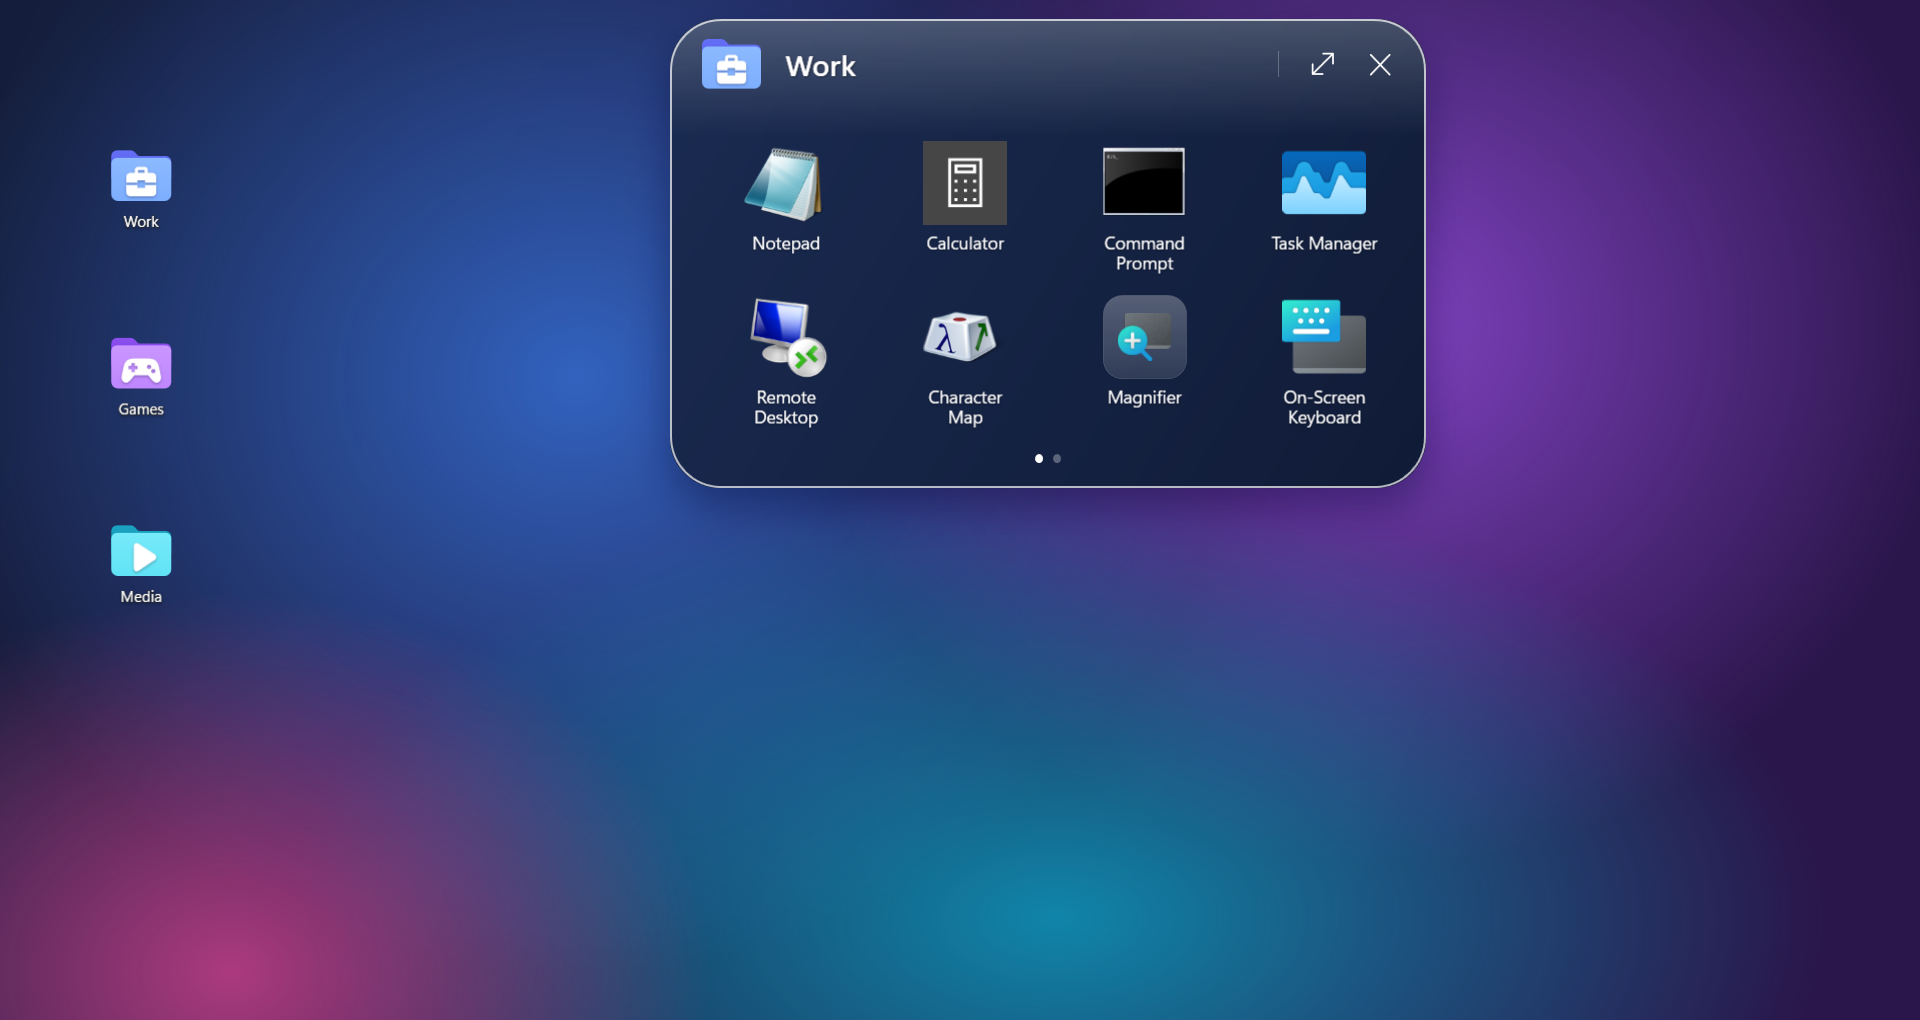
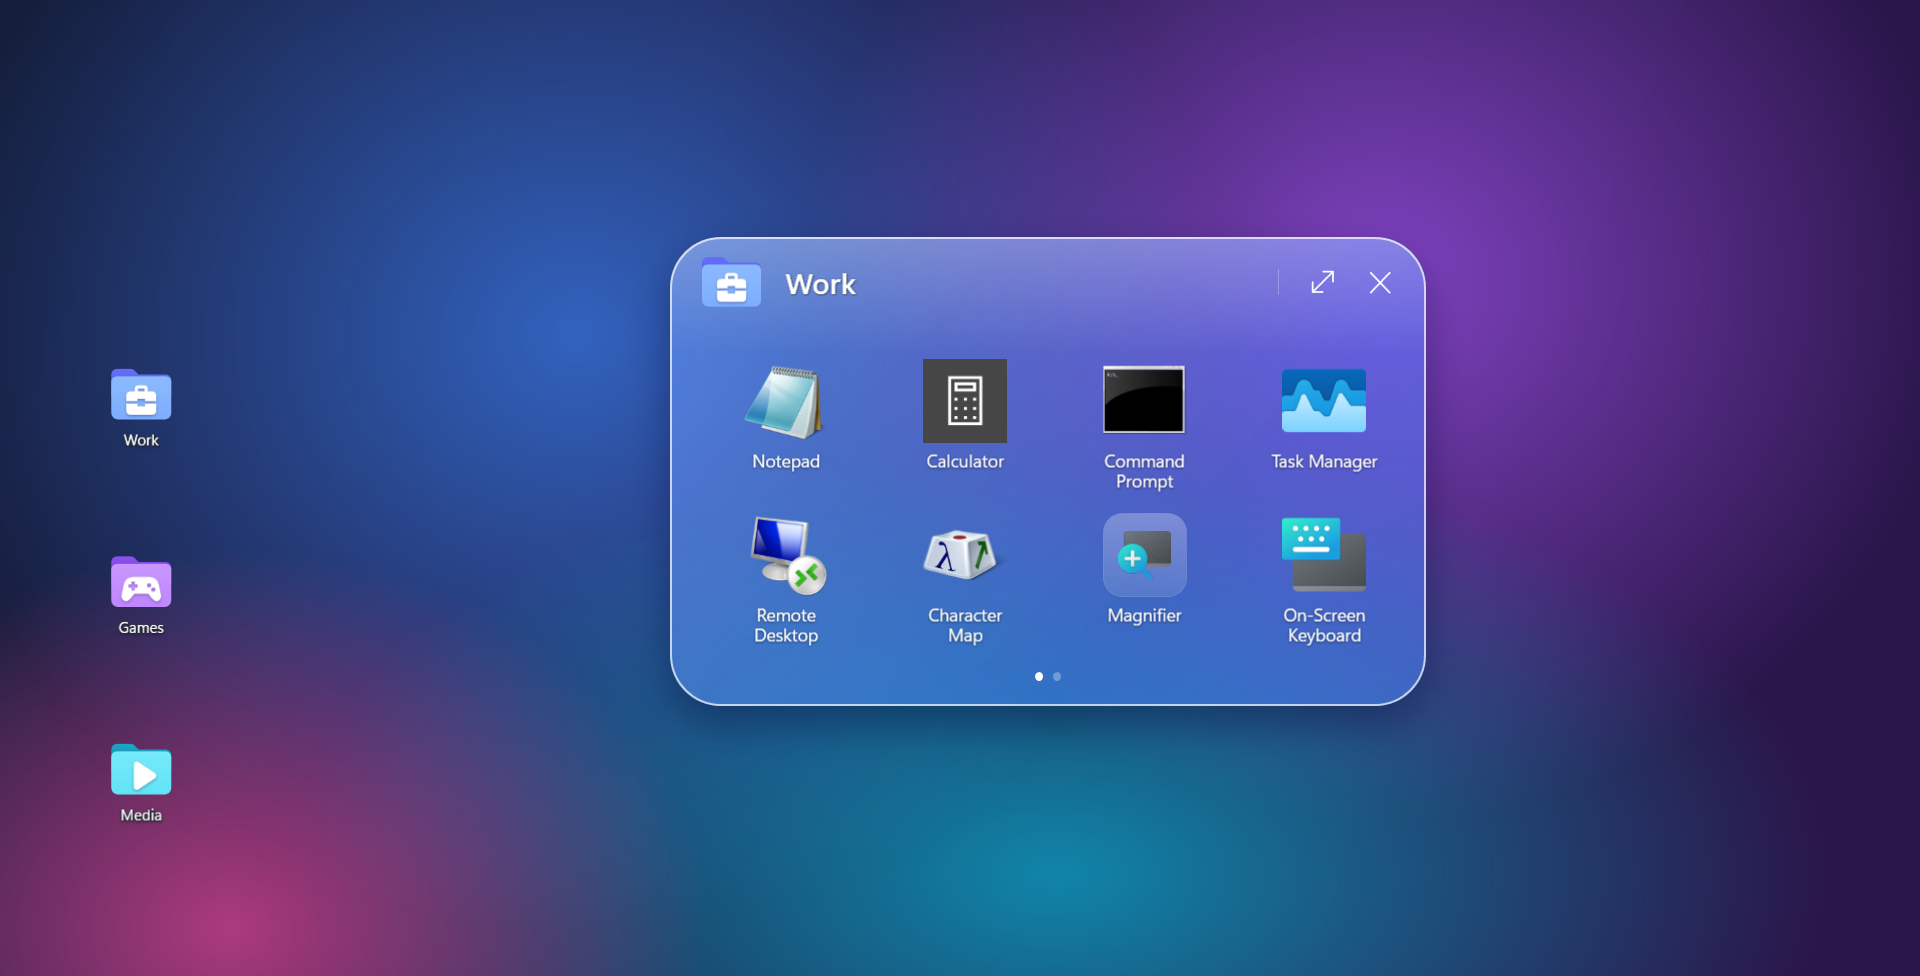
docs: retake README screenshots with the fixed popup glass
The capture tool now places the sample folders lower so the popup clears windows at the top edge of the screen.

diff --git a/tools/ScreenshotCapture/Program.cs b/tools/ScreenshotCapture/Program.cs
@@ -293,7 +293,7 @@ internal static class Program
     {
         var canvas = (Canvas)wallpaper.Content;
         RECT anchor = default;
-        int y = 90;
+        int y = 300; // low enough that the popup clears whatever the user keeps at the top edge of their screen
         foreach (var f in folders)
         {
             var metrics = GlassFolders.Core.Layout.FolderTileMetrics.For(f.Size, 76, 97.6);
